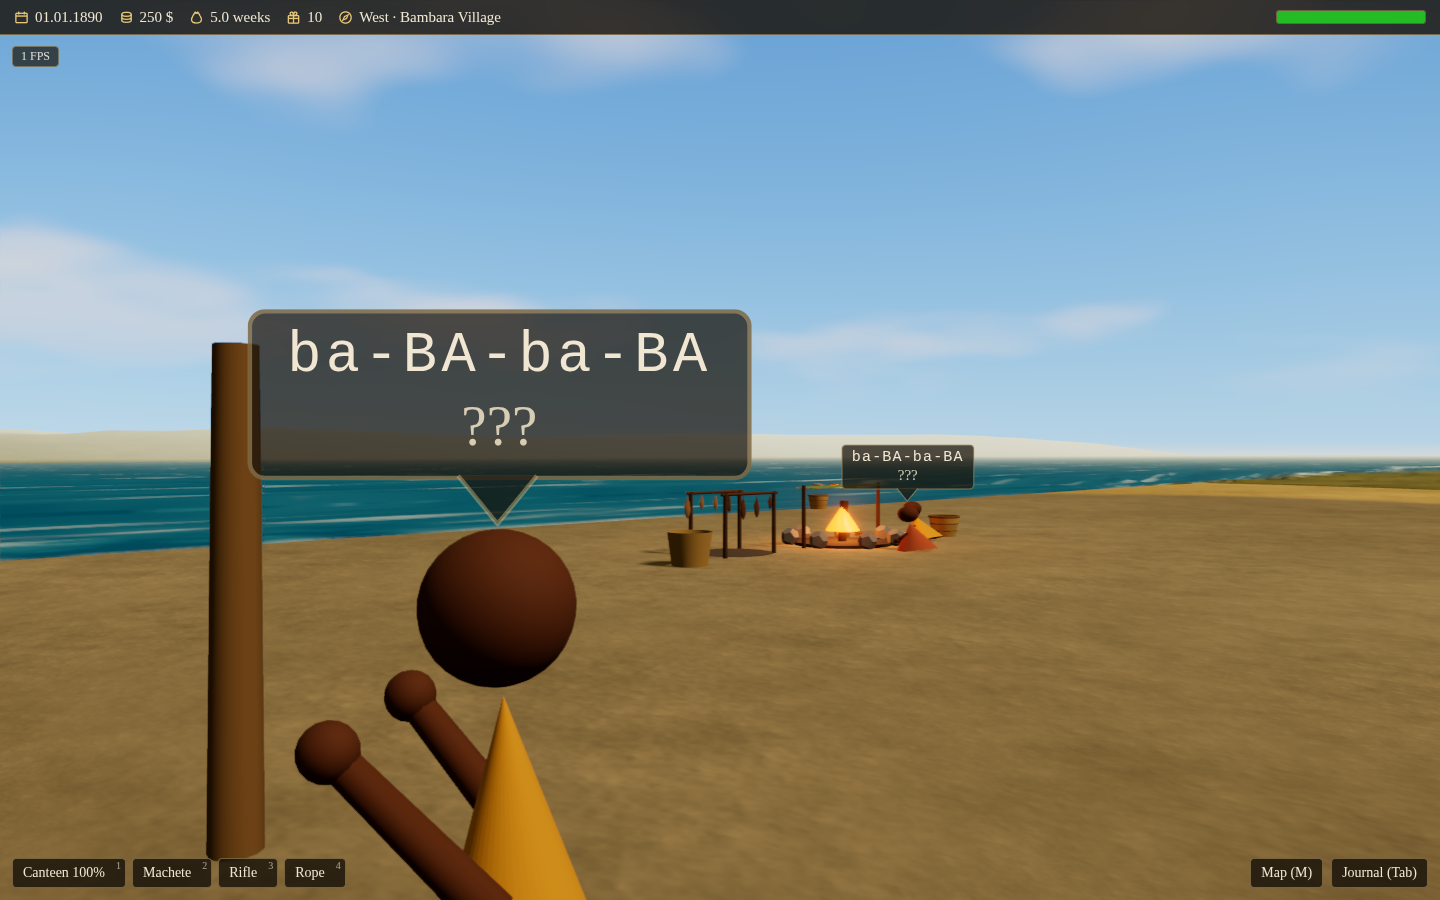
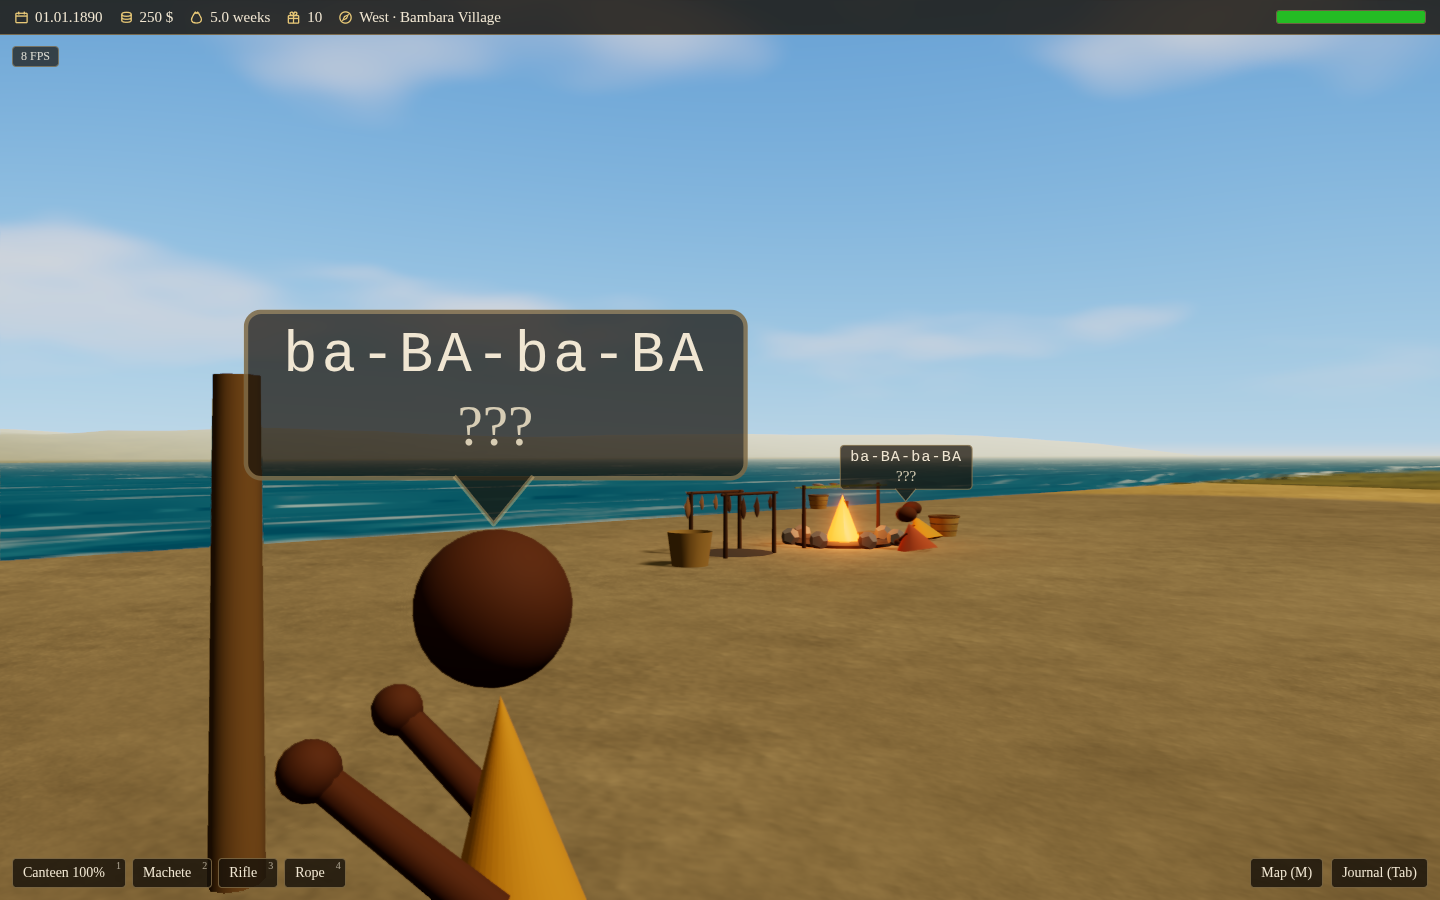
Require the speech probe's sight line to hit the speaker itself, before and after the shutter
The place ray probe now reports the uuid of the object it hit (dev hook), and
the speech hypothesis section accepts a sight line only when that object is
the probe figure or one of its own meshes; a distance band let a wall just in
front of the head pass. The probe is installed in the page once and is also
read inside the post-shot measurement, so a speaker that walks behind an
obstacle during the capture fails the shutter check.

Refreshed frames 146 and 1271 from WebGPU runs.

diff --git a/src/scenes/place/PlaceScene.tsx b/src/scenes/place/PlaceScene.tsx
@@ -2786,6 +2786,9 @@ export function PlaceScene() {
         targetDistance: target.distanceTo(origin),
         hitDistance: hit ? hit.distance : null,
         hitName: hit ? hit.object.name || (hit.object as THREE.Mesh).geometry?.type || 'mesh' : null,
+        // Which object, exactly: a check can ask whether the first surface
+        // belongs to its subject instead of guessing from the distance.
+        hitUuid: hit ? hit.object.uuid : null,
         hitWater,
         behindName: behind === undefined ? undefined : behind ? behind.object.name || 'mesh' : null,
         behindDistance: behind ? behind.distance : null,
